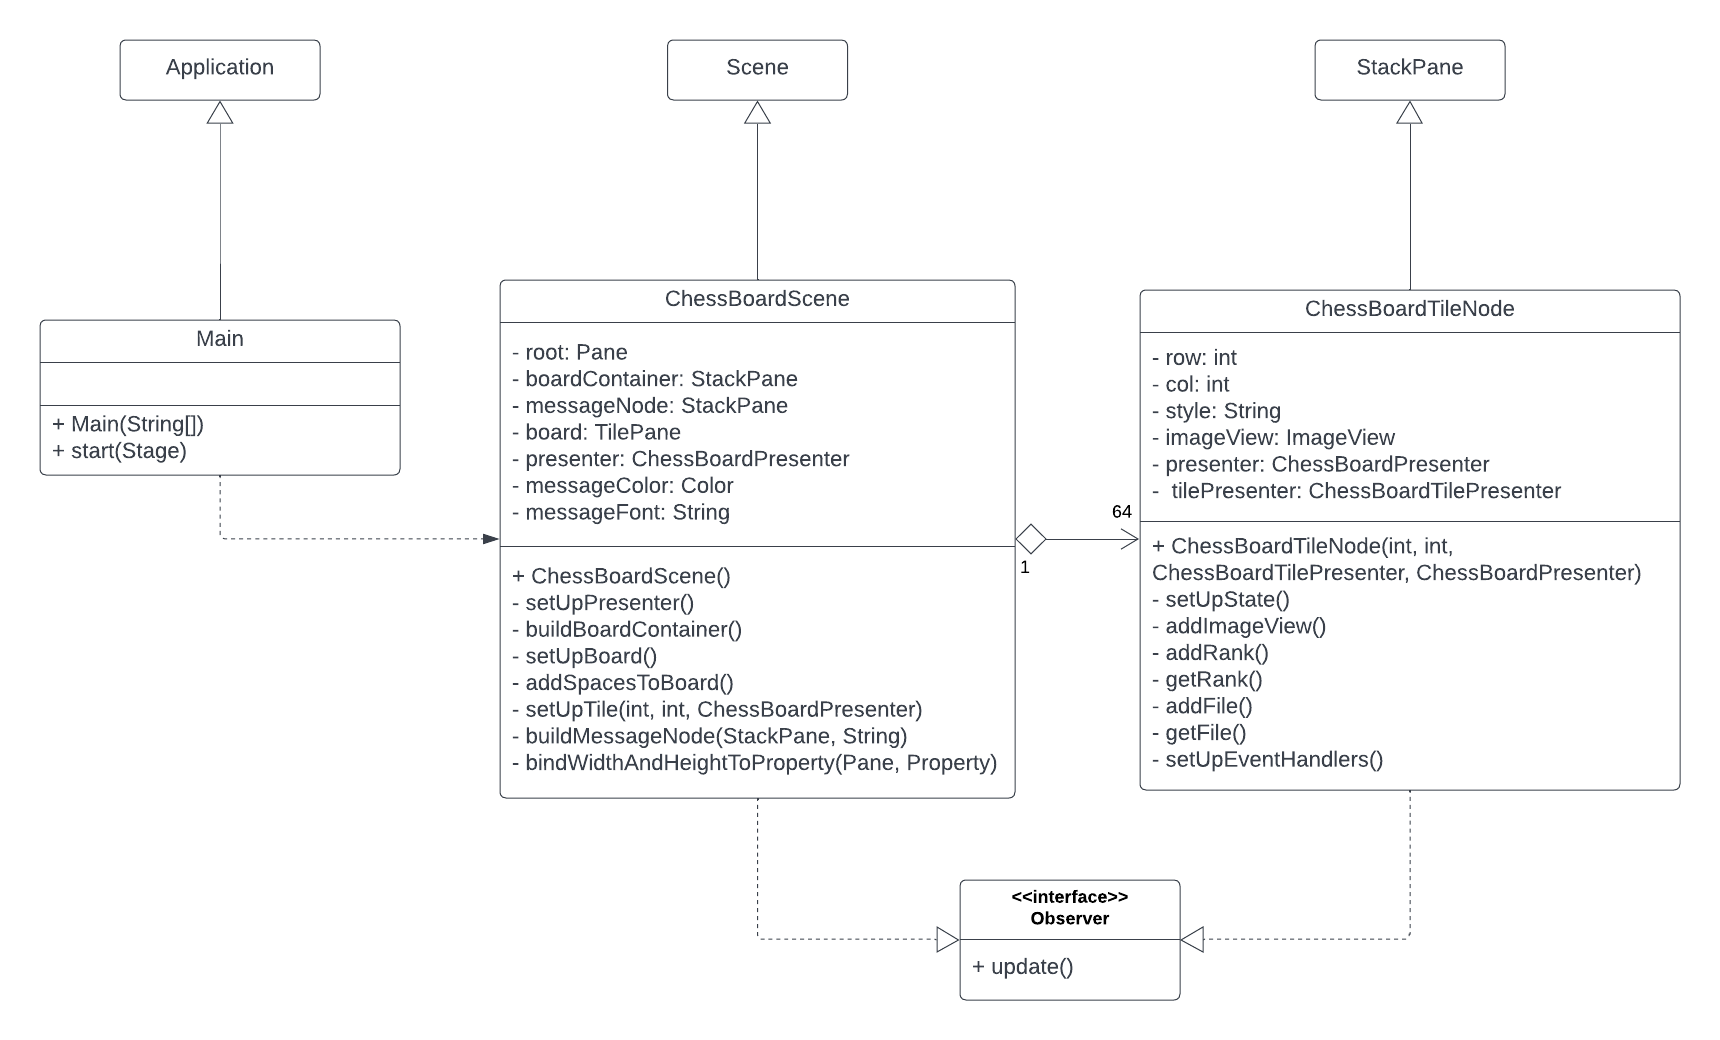
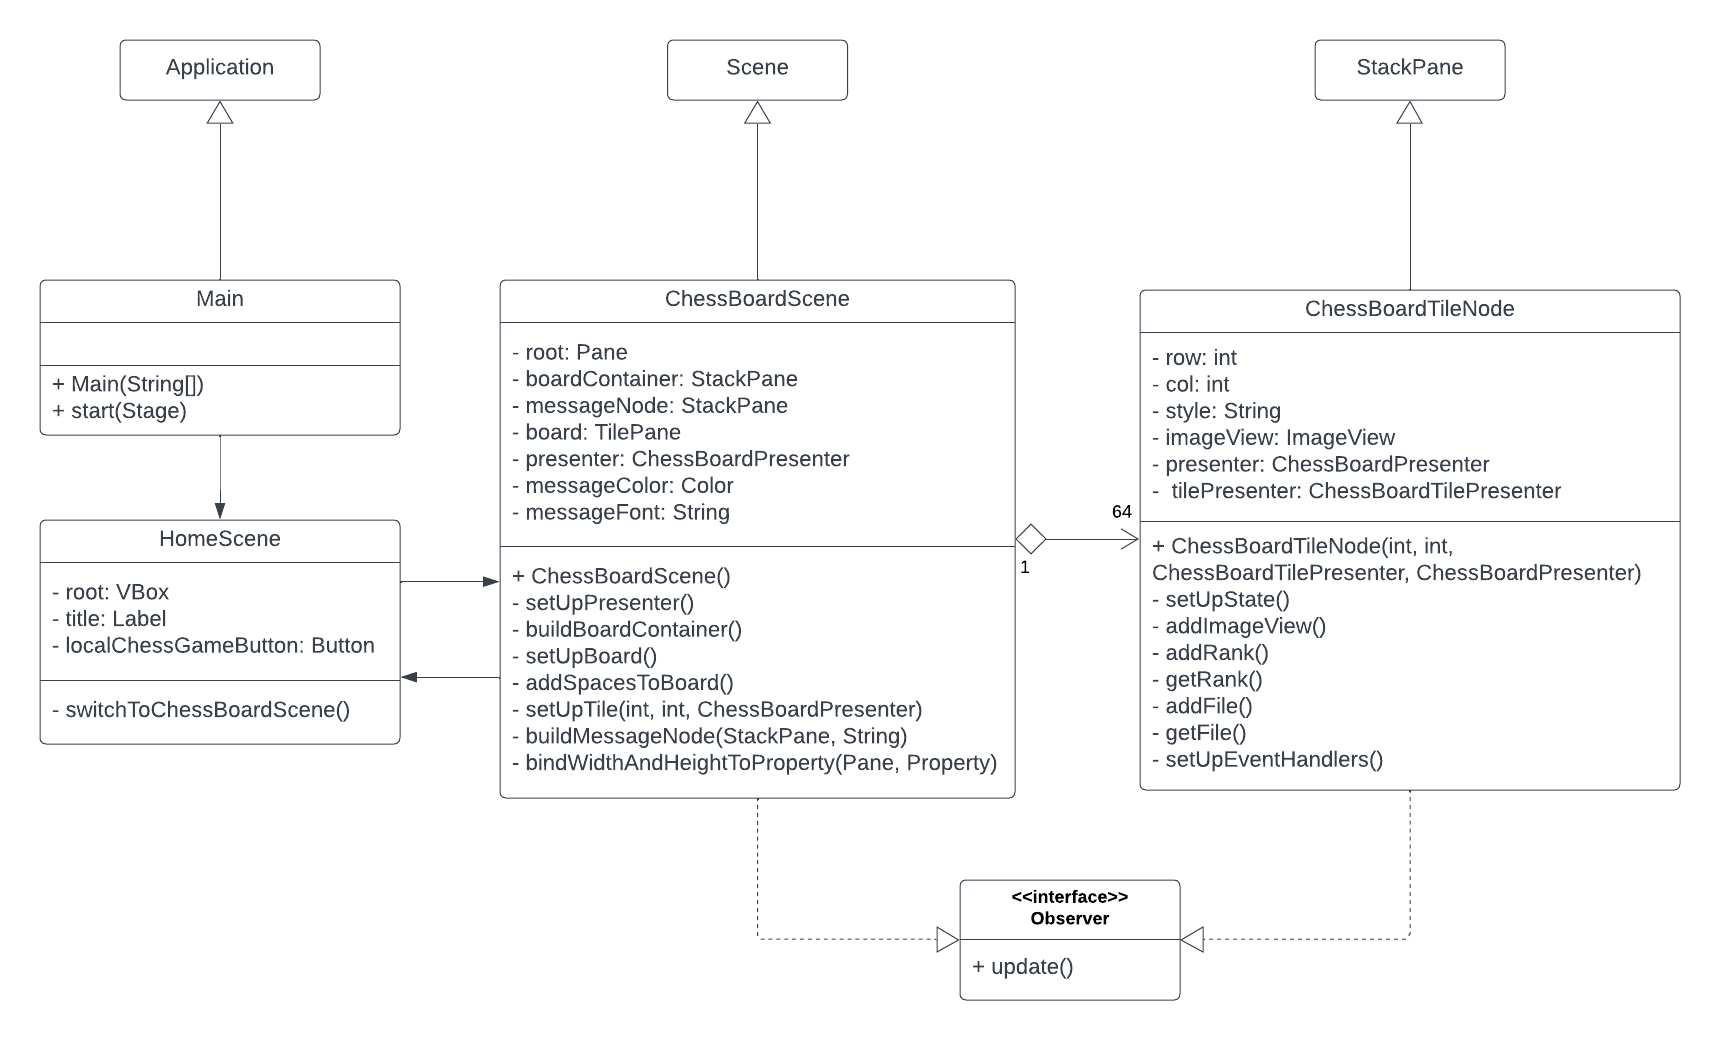
Added the home screen to the design document by updated the class diagram for the view component.

diff --git a/documentation/design.md b/documentation/design.md
@@ -18,8 +18,8 @@ It also allows me to test the presenter to make sure data is being presented in 
 ### Class Diagram - View Component
 ![](resources/class_diagram_view_component.png)
 
-The view component consists of a ChessBoardScene, which is composed of ChessBoardTileNodes.
-Each of these implements the Observer interface.
+The view component consists of a HomeScene and a ChessBoardScene, which is composed of ChessBoardTileNodes.
+The ChessBoardScene and the ChessBoardTileNodes implement the Observer interface.
 We can then attach these objects to presenters so that when the presenters' states are updated, the view is updated as well.
 
 More details on the Observer design pattern can be found in *Design Patterns*.
